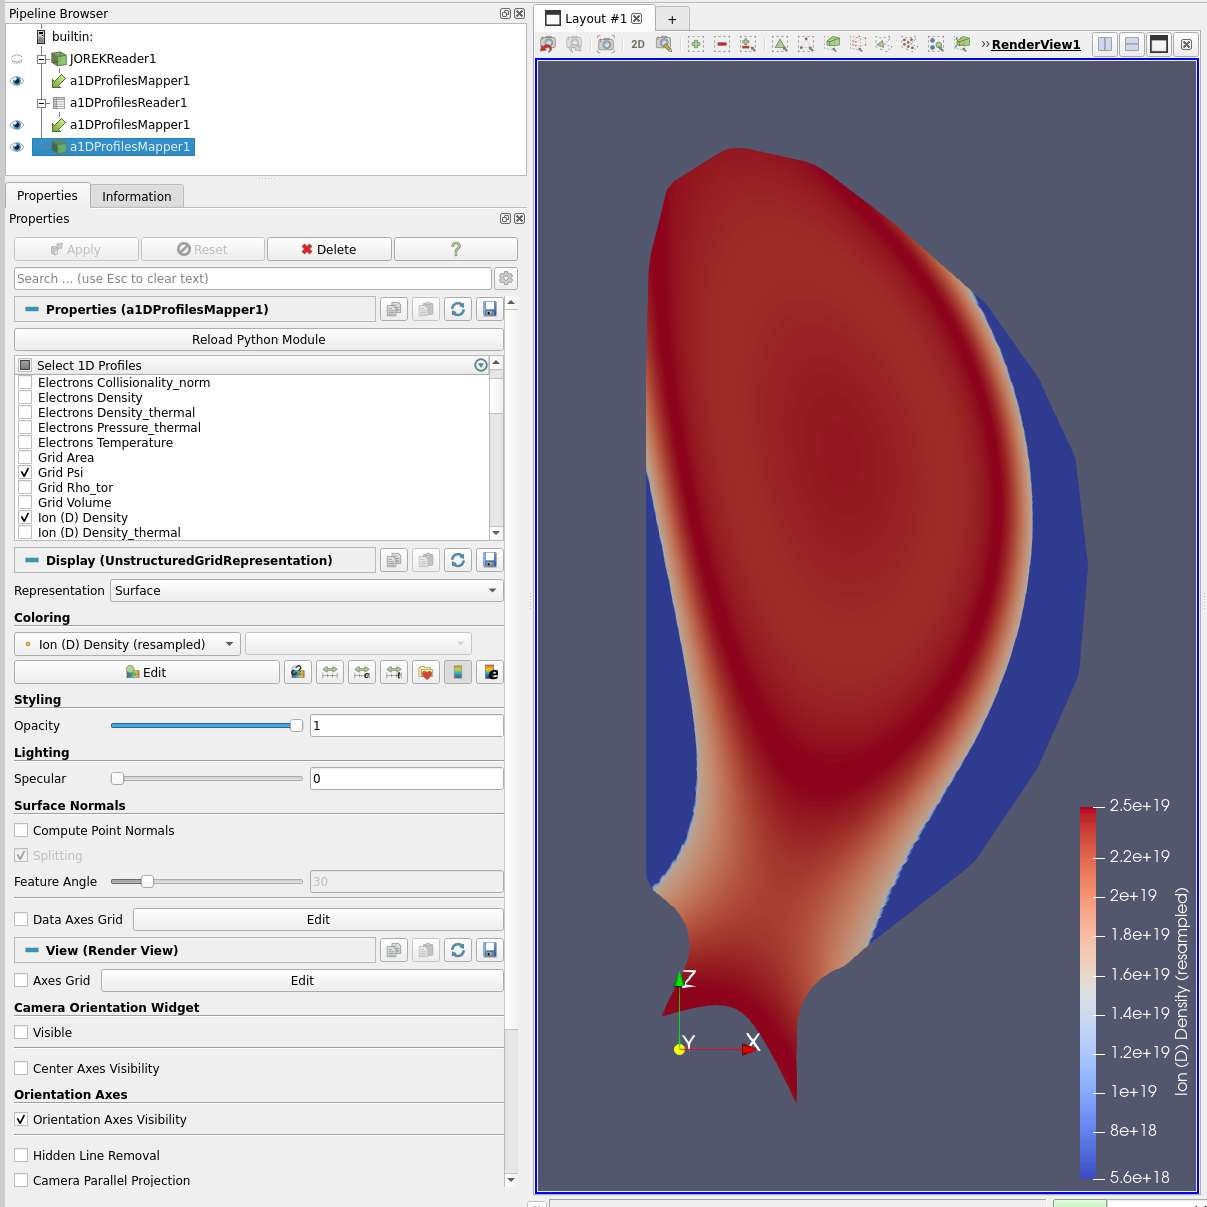
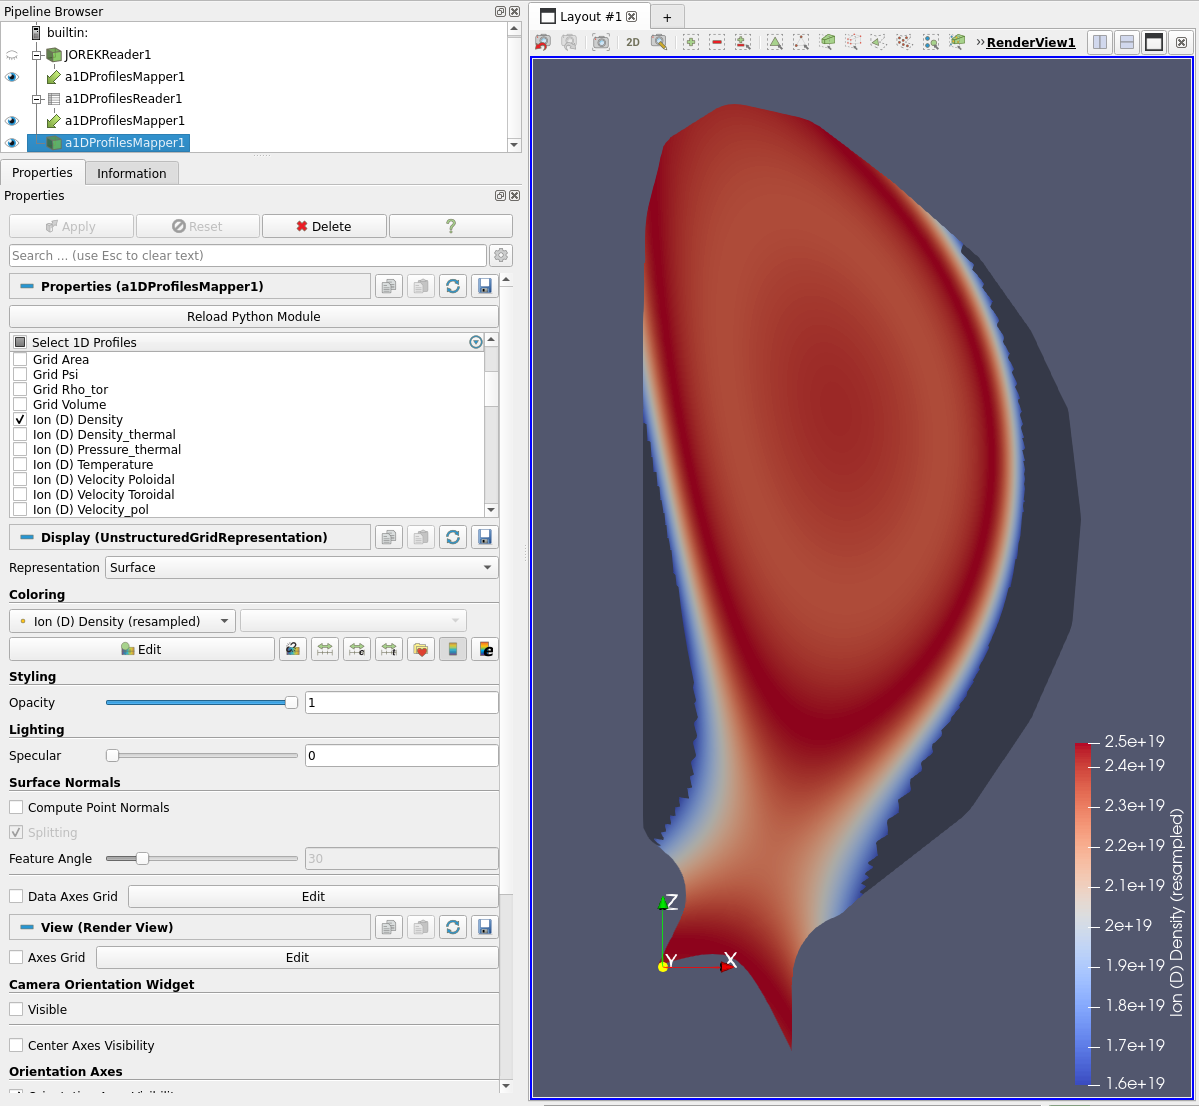
updated docs

Changed region(s): [[0.0, 0.0, 1.0, 1.0], [0.5246, 0.0922, 0.9258, 0.953], [0.2469, 0.8608, 0.2777, 0.8915]]

diff --git a/docs/source/1d_profiles_mapper.rst b/docs/source/1d_profiles_mapper.rst
@@ -14,7 +14,7 @@ The filter takes two inputs:
 The 1DProfilesReader must provide at least the Psi grid coordinate but may include any number of additional 1D profiles. The filter resamples the 1D profiles onto the 2D Psi grid of the GGD data. 
 
 
-.. note:: If the 1D profile contains values outside of the range of the values of the Psi grid, these points will be mapped to 0.
+.. note:: If the 1D profile contains values outside of the range of the values of the Psi grid, these points will be mapped to NaN values.
 
 
 Example Usage
@@ -41,7 +41,7 @@ Example Usage
 
 .. figure:: images/profiles1d_map.png
 
-   The Deuterium density 1D profile mapped onto the 2D poloidal flux grid from an MHD IDS.
+   The Deuterium density 1D profile mapped onto the 2D poloidal flux grid from an MHD IDS. Here, the NaN values are colored in translucent black.
 
 .. warning::  
    The filter does not take into account which parts of the 2D flux map are inside or outside the LCFS.
